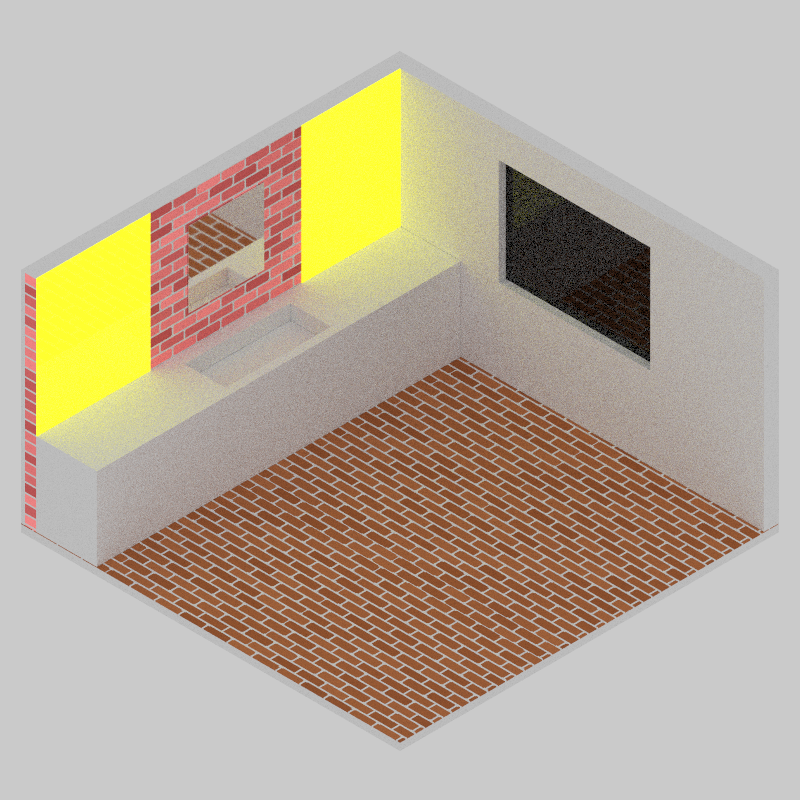
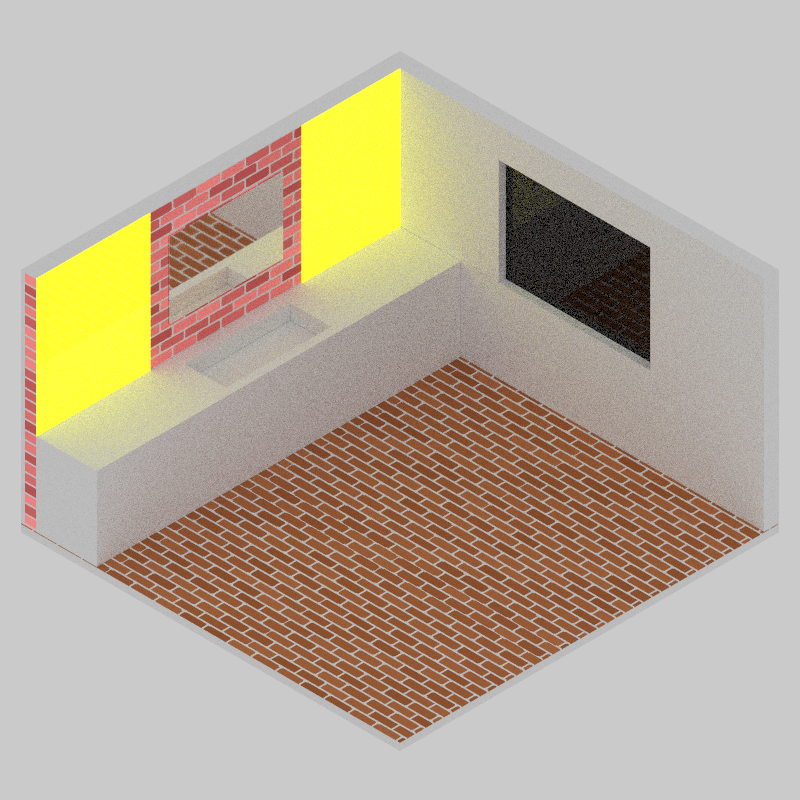
New Plane state and rect subdiv

diff --git a/shapezlib/src/node/execution.rs b/shapezlib/src/node/execution.rs
@@ -1,5 +1,14 @@
 use crate::prelude::*;
 
+#[derive(Clone)]
+pub struct SegmentationState {
+    pub bbox: Aabb<f32>,
+    pub plane: Plane,
+    pub u: Value,
+    pub v: Value,
+    pub d: Value,
+}
+
 pub struct Execution {
     pub variables: Vec<Value>,
 
@@ -13,6 +22,11 @@ pub struct Execution {
     pub v: Value,
     /// The segment computed d (depth) value
     pub d: Value,
+    /// The current plane
+    pub plane: Plane,
+
+    /// The current segmentation state
+    state_stack: Vec<SegmentationState>,
 
     /// Hash, generated by patterns and passed on to the materials.
     pub hash: f32,
@@ -37,6 +51,8 @@ impl Execution {
             u: Value::zero(),
             v: Value::zero(),
             d: Value::zero(),
+            plane: Plane::XZ,
+            state_stack: Vec::with_capacity(8),
             hash: 1.0,
             bbox: Aabb {
                 min: Vec3::zero(),
@@ -55,6 +71,8 @@ impl Execution {
             u: Value::zero(),
             v: Value::zero(),
             d: Value::zero(),
+            plane: Plane::XZ,
+            state_stack: Vec::with_capacity(8),
             hash: 1.0,
             bbox: Aabb {
                 min: Vec3::zero(),
@@ -130,6 +148,12 @@ impl Execution {
                     self.stack.push(target);
                 }
                 NodeOp::Push(v) => self.stack.push(*v),
+                NodeOp::Clear => _ = self.stack.pop(),
+                NodeOp::Pack2 => {
+                    let y = self.stack.pop().unwrap();
+                    let x = self.stack.pop().unwrap();
+                    self.stack.push(Value::from_components(x.x(), y.x(), 0.0));
+                }
                 NodeOp::Pack3 => {
                     let z = self.stack.pop().unwrap();
                     let y = self.stack.pop().unwrap();
@@ -292,12 +316,91 @@ impl Execution {
                         .push(Value::from_components(-a.x(), -a.y(), -a.z()));
                 }
                 // Shapes
-                NodeOp::ShapeRect(body) => {
+                NodeOp::ShapeRect(at, size, body) => {
                     let cl = self.bbox.clone();
-                    self.execute(body, program);
+
+                    let bb_size = self.bbox.size();
+                    let bbox_size = match self.plane {
+                        Plane::XY => Vec2::new(bb_size.w, bb_size.h),
+                        Plane::XZ => Vec2::new(bb_size.w, bb_size.d),
+                        Plane::YZ => Vec2::new(bb_size.h, bb_size.d),
+                        Plane::ZY => Vec2::new(bb_size.d, bb_size.h),
+                    };
+
+                    let mut offset = Vec2::zero();
+                    let mut dims = bbox_size;
+
+                    // Evaluate 'dims' (size of shape)
+                    if !size.is_empty() {
+                        self.execute(size, program);
+                        dims = self.stack.pop().unwrap().as_vec2();
+                    }
+
+                    // Default 'at' is (0,0), evaluate if provided
+                    if !at.is_empty() {
+                        self.execute(at, program);
+                        offset = self.stack.pop().unwrap().as_vec2();
+                    }
+
+                    // Compute center of bbox in 2D plane
+                    let center = match self.plane {
+                        Plane::XY => Vec2::new(
+                            self.bbox.min.x + bbox_size.x * 0.5,
+                            self.bbox.min.y + bbox_size.y * 0.5,
+                        ),
+                        Plane::XZ => Vec2::new(
+                            self.bbox.min.x + bbox_size.x * 0.5,
+                            self.bbox.min.z + bbox_size.y * 0.5,
+                        ),
+                        Plane::YZ => Vec2::new(
+                            self.bbox.min.y + bbox_size.x * 0.5,
+                            self.bbox.min.z + bbox_size.y * 0.5,
+                        ),
+                        Plane::ZY => Vec2::new(
+                            self.bbox.min.z + bbox_size.x * 0.5,
+                            self.bbox.min.y + bbox_size.y * 0.5,
+                        ),
+                    };
+
+                    // Final offset is relative to center, minus half size
+                    offset = center + offset - dims * 0.5;
+
+                    // Apply bbox reduction
+                    match self.plane {
+                        Plane::XY => {
+                            self.bbox.min.x = offset.x;
+                            self.bbox.min.y = offset.y;
+                            self.bbox.max.x = offset.x + dims.x;
+                            self.bbox.max.y = offset.y + dims.y;
+                        }
+                        Plane::XZ => {
+                            self.bbox.min.x = offset.x;
+                            self.bbox.min.z = offset.y;
+                            self.bbox.max.x = offset.x + dims.x;
+                            self.bbox.max.z = offset.y + dims.y;
+                        }
+                        Plane::YZ => {
+                            self.bbox.min.y = offset.x;
+                            self.bbox.min.z = offset.y;
+                            self.bbox.max.y = offset.x + dims.x;
+                            self.bbox.max.z = offset.y + dims.y;
+                        }
+                        Plane::ZY => {
+                            self.bbox.min.z = offset.x;
+                            self.bbox.min.y = offset.y;
+                            self.bbox.max.z = offset.x + dims.x;
+                            self.bbox.max.y = offset.y + dims.y;
+                        }
+                    }
+
+                    // Execute body if local point is within new bbox
+                    if self.bbox.contains_point(self.local.as_vec3()) {
+                        self.execute(body, program);
+                    }
+
                     self.bbox = cl;
                 }
-                NodeOp::ShapeDisc(body) => {
+                NodeOp::ShapeDisc(at, size, body) => {
                     let local = self.local.as_vec3();
 
                     // Get center and radius from bbox in XZ plane
@@ -329,8 +432,9 @@ impl Execution {
                 }
                 // Segments
                 NodeOp::SegmentLeft(depth, body) => {
-                    let old_max_x = self.bbox.max.x;
+                    self.push_state();
 
+                    self.plane = Plane::ZY;
                     let local = self.local.as_vec3();
 
                     let thickness = if depth.is_empty() {
@@ -349,11 +453,12 @@ impl Execution {
                         self.execute(body, program);
                     }
 
-                    self.bbox.max.x = old_max_x;
+                    self.pop_state();
                 }
                 NodeOp::SegmentBack(depth, body) => {
-                    let old_max_z = self.bbox.max.z;
+                    self.push_state();
 
+                    self.plane = Plane::XY;
                     let local = self.local.as_vec3();
 
                     let thickness = if depth.is_empty() {
@@ -372,11 +477,12 @@ impl Execution {
                         self.execute(body, program);
                     }
 
-                    self.bbox.max.z = old_max_z;
+                    self.pop_state();
                 }
                 NodeOp::SegmentFloor(depth, body) => {
-                    let old_max_y = self.bbox.max.y;
+                    self.push_state();
 
+                    self.plane = Plane::XZ;
                     let local = self.local.as_vec3();
 
                     let thickness = if depth.is_empty() {
@@ -395,7 +501,7 @@ impl Execution {
                         self.execute(body, program);
                     }
 
-                    self.bbox.max.y = old_max_y;
+                    self.pop_state();
                 }
                 // Pattern
                 NodeOp::PatternModulo(even, odd) => {
@@ -579,5 +685,27 @@ impl Execution {
         }
 
         program.grid.write().unwrap().merge(&grid);
+    }
+
+    // Push the current segmentation state.
+    fn push_state(&mut self) {
+        self.state_stack.push(SegmentationState {
+            bbox: self.bbox.clone(),
+            plane: self.plane,
+            u: self.u,
+            v: self.v,
+            d: self.d,
+        });
+    }
+
+    // Pop the last segmentation state.
+    fn pop_state(&mut self) {
+        if let Some(state) = self.state_stack.pop() {
+            self.bbox = state.bbox;
+            self.plane = state.plane;
+            self.u = state.u;
+            self.v = state.v;
+            self.d = state.d;
+        }
     }
 }

diff --git a/shapezlib/src/ast/compile.rs b/shapezlib/src/ast/compile.rs
@@ -185,13 +185,40 @@ impl Visitor for CompileVisitor {
             block.accept(self, ctx)?;
         }
 
+        let mut at = vec![];
+        if let Some(depth_ast) = objectd.params.get("at") {
+            ctx.add_custom_target();
+            _ = depth_ast.accept(self, ctx)?;
+            if let Some(code) = ctx.take_last_custom_target() {
+                at = code;
+            }
+        }
+
+        let mut size = vec![];
+        if let Some(depth_ast) = objectd.params.get("size") {
+            ctx.add_custom_target();
+            _ = depth_ast.accept(self, ctx)?;
+            if let Some(code) = ctx.take_last_custom_target() {
+                size = code;
+            }
+        }
+
+        let mut radius = vec![];
+        if let Some(depth_ast) = objectd.params.get("radius") {
+            ctx.add_custom_target();
+            _ = depth_ast.accept(self, ctx)?;
+            if let Some(code) = ctx.take_last_custom_target() {
+                radius = code;
+            }
+        }
+
         if let Some(code) = ctx.take_last_custom_target() {
             match objectd.name.as_str() {
                 "Rect" => {
-                    ctx.emit(NodeOp::ShapeRect(code));
+                    ctx.emit(NodeOp::ShapeRect(at, size, code));
                 }
                 "Disc" => {
-                    ctx.emit(NodeOp::ShapeDisc(code));
+                    ctx.emit(NodeOp::ShapeDisc(at, radius, code));
                 }
                 _ => {}
             }
@@ -489,6 +516,8 @@ impl Visitor for CompileVisitor {
             ctx.emit(NodeOp::D);
         } else if name == "hash" {
             ctx.emit(NodeOp::Hash);
+        } else if name == "Clear" {
+            ctx.emit(NodeOp::Clear);
         } else {
             if let Some(index) = ctx.variables.get(&name) {
                 ctx.emit(NodeOp::Load(*index as usize));
@@ -521,6 +550,11 @@ impl Visitor for CompileVisitor {
             }
             ASTValue::Float(f) => {
                 ctx.emit(NodeOp::Push(Value::from_float(*f)));
+            }
+            ASTValue::Float2(x, y) => {
+                _ = x.accept(self, ctx)?.to_float().unwrap_or_default();
+                _ = y.accept(self, ctx)?.to_float().unwrap_or_default();
+                ctx.emit(NodeOp::Pack2);
             }
             ASTValue::Float3(x, y, z) => {
                 _ = x.accept(self, ctx)?.to_float().unwrap_or_default();

diff --git a/shapezlib/src/ast/parser.rs b/shapezlib/src/ast/parser.rs
@@ -40,7 +40,11 @@ impl Parser {
     /// Compile the main source module.
     pub fn compile(&mut self, path: PathBuf) -> Result<Module, ParseError> {
         if let Ok(source) = std::fs::read_to_string(path.clone()) {
-            self.compile_module("main".to_string(), source, path)
+            if let Some(stem) = path.file_stem().and_then(|s| s.to_str()) {
+                self.compile_module(stem.to_string(), source, path)
+            } else {
+                Err(ParseError::new("Could not read file", 0, &path))
+            }
         } else {
             Err(ParseError::new("Could not read file", 0, &path))
         }
@@ -305,8 +309,11 @@ impl Parser {
             )?;
 
             let value = self.expression()?;
-
             params.insert(id, Box::new(value));
+
+            if self.tokens[self.current].kind == TokenType::Comma {
+                self.advance();
+            }
         }
 
         self.consume(
@@ -1326,6 +1333,7 @@ impl Parser {
                     || token.lexeme == "v"
                     || token.lexeme == "d"
                     || token.lexeme == "hash"
+                    || token.lexeme == "Clear"
                 {
                     Ok(Expr::Variable(
                         token.lexeme.clone(),

diff --git a/shapezlib/src/node/mod.rs b/shapezlib/src/node/mod.rs
@@ -3,6 +3,14 @@ pub mod execution;
 pub mod program;
 pub mod value;
 
+#[derive(Clone, Copy, Debug)]
+pub enum Plane {
+    XY, // Back
+    YZ, // u = Y, v = Z
+    XZ, // Floor
+    ZY, // Left
+}
+
 #[derive(Debug, Clone)]
 pub enum NodeOp {
     Load(usize),
@@ -13,6 +21,7 @@ pub enum NodeOp {
     If(Vec<NodeOp>, Option<Vec<NodeOp>>),
     Place(String),
     Push(Value),
+    Clear,
     Dup,
     World,
     Local,
@@ -20,6 +29,7 @@ pub enum NodeOp {
     V,
     D,
     Hash,
+    Pack2,
     Pack3,
     Add,
     Sub,
@@ -46,8 +56,8 @@ pub enum NodeOp {
     Or,
     Not,
     Neg,
-    ShapeRect(Vec<NodeOp>),
-    ShapeDisc(Vec<NodeOp>),
+    ShapeRect(Vec<NodeOp>, Vec<NodeOp>, Vec<NodeOp>),
+    ShapeDisc(Vec<NodeOp>, Vec<NodeOp>, Vec<NodeOp>),
     SegmentLeft(Vec<NodeOp>, Vec<NodeOp>),
     SegmentBack(Vec<NodeOp>, Vec<NodeOp>),
     SegmentFloor(Vec<NodeOp>, Vec<NodeOp>),

diff --git a/shpz/src/main.rs b/shpz/src/main.rs
@@ -9,10 +9,8 @@ fn cli() -> Command {
         .author("Markus Moenig")
         .version("0.1.0")
         .subcommand_required(false)
-        .arg_required_else_help(true)
         .allow_external_subcommands(true)
-        .arg(arg!(<FILE> "The input '.shpz' file"))
-        .arg_required_else_help(false)
+        .arg(arg!([FILE] "The input '.shpz' file").default_value("main.shpz"))
         .subcommand(
             Command::new("render").about("Renders the input to an PNG image. Used by default."),
         )
